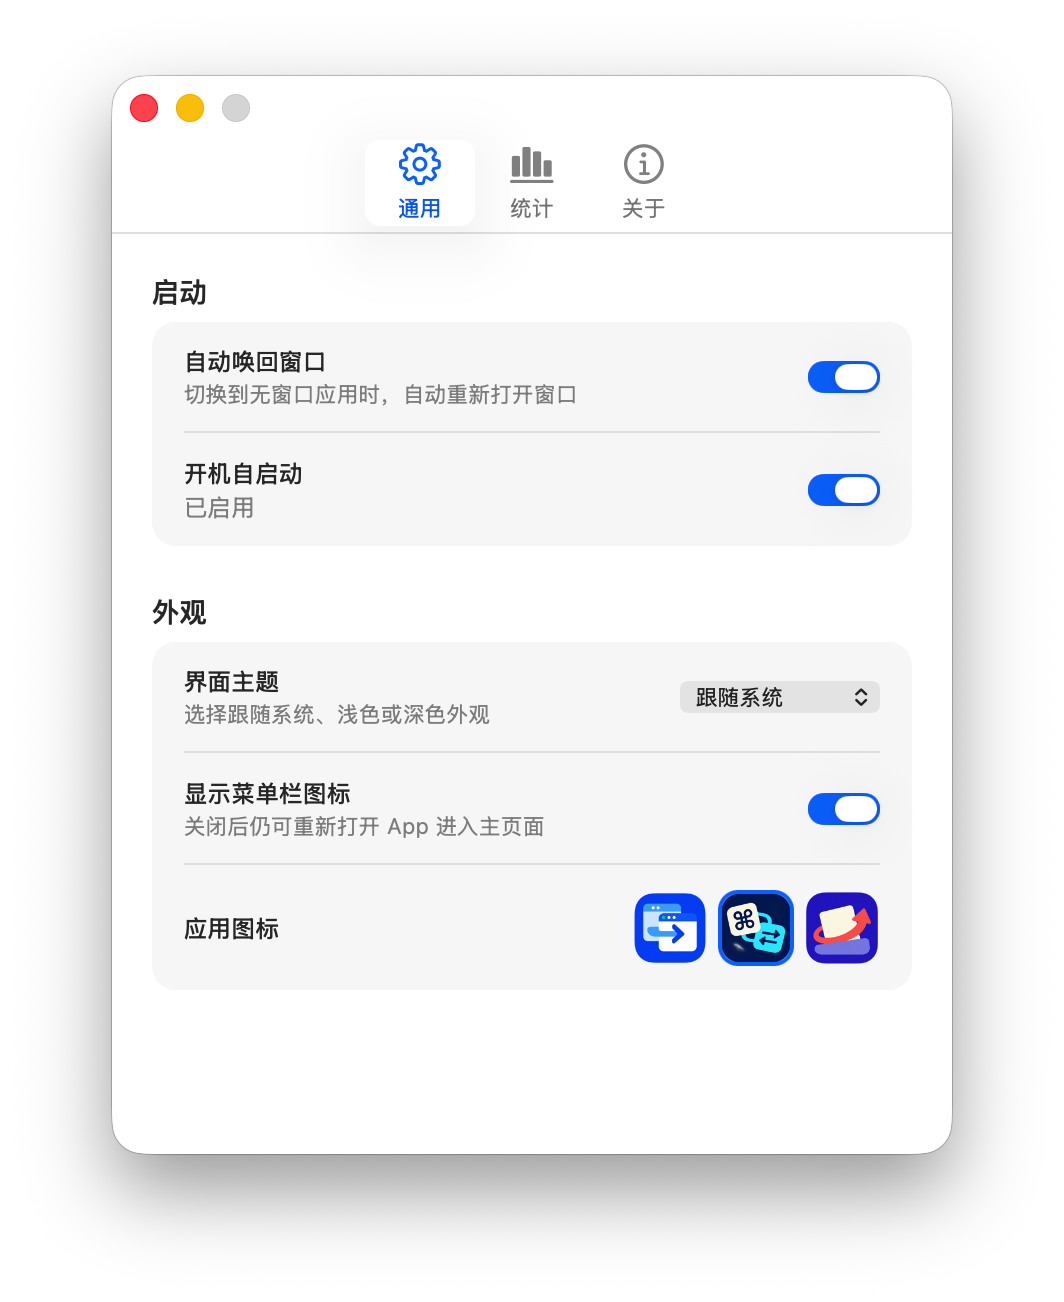
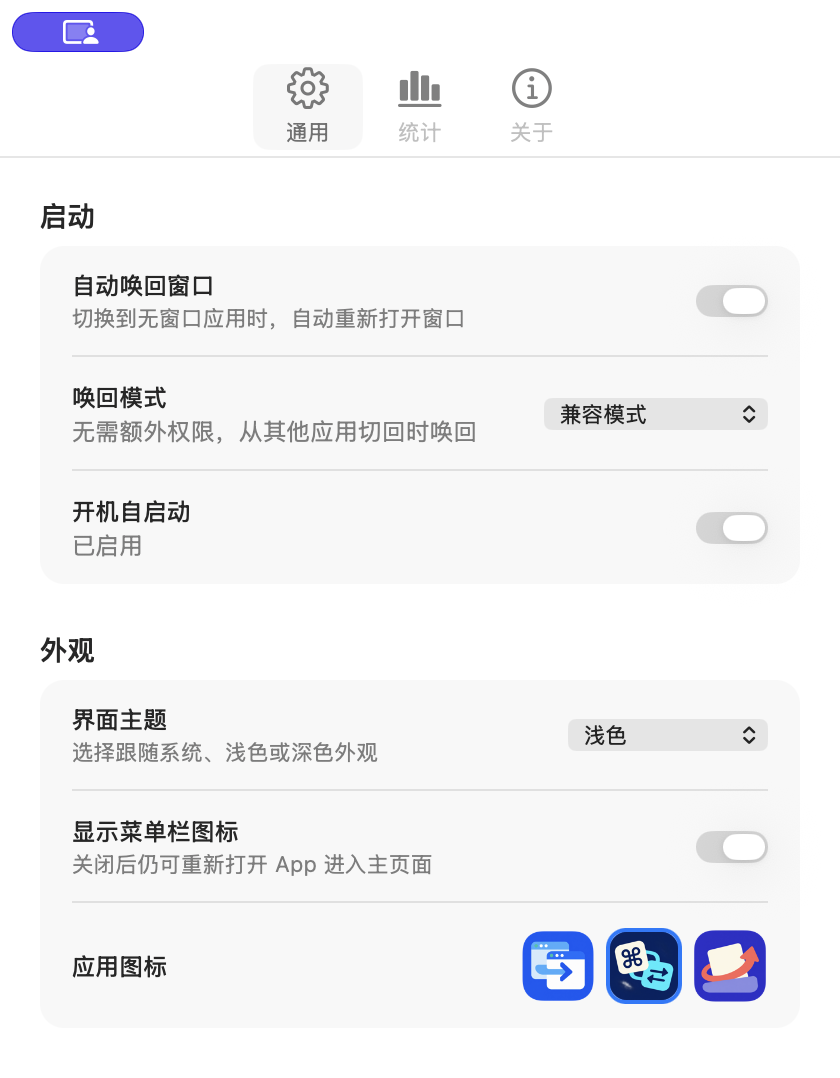
release: publish Cmd Tab Pro v0.4.1

diff --git a/README.md b/README.md
@@ -4,13 +4,14 @@
   <img src="Assets/AppIcon.png" alt="Cmd Tab Pro 图标" width="112">
 </p>
 
-有些 macOS 应用按下 `Cmd+W` 后只关闭窗口，进程仍在运行。再次使用 `Cmd+Tab` 切回应用时，窗口却不会回来。
+有些 macOS 应用按下 `Cmd+W` 或关闭最后一个窗口后仍在后台运行，但再次使用 `Cmd+Tab` 切回时，窗口不会自动回来。
 
-**Cmd Tab Pro** 保留系统原生 `Cmd+Tab`，切换到无窗口应用时自动唤回窗口，让应用切换更丝滑。
+**Cmd Tab Pro** 为系统原生 `Cmd+Tab` 补上窗口唤回能力：不替换系统切换器，在切回没有可见窗口的应用时请求它重新打开窗口，让应用切换更顺畅。
 
 <p align="center">
-  <img src="Assets/Screenshots/main-dashboard.png" alt="Cmd Tab Pro 通用页面" width="410">
-  <img src="Assets/Screenshots/statistics.png" alt="Cmd Tab Pro 统计页面" width="410">
+  <img src="Assets/Screenshots/main-dashboard.png" alt="Cmd Tab Pro v0.4.1 通用页面" width="270">
+  <img src="Assets/Screenshots/statistics.png" alt="Cmd Tab Pro v0.4.1 统计页面" width="270">
+  <img src="Assets/Screenshots/about.png" alt="Cmd Tab Pro v0.4.1 关于页面" width="270">
 </p>
 
 <p align="center">
@@ -19,16 +20,17 @@
   · Apple Silicon
 </p>
 
-## v0.4.0
+## 当前版本：v0.4.1
 
-新增增强自动模式：在保留系统原生 `Cmd+Tab` 的前提下，监听一次完整的 `Cmd+Tab` 切换，并在目标应用没有可见窗口时请求重新打开窗口。此模式需要输入监控权限，但不会拦截、替换或修改系统快捷键。
+v0.4.1 延续增强自动模式：在保留系统原生 `Cmd+Tab` 的前提下，被动识别一次完整的应用切换，并在目标应用没有可见顶层窗口时请求重新打开窗口。此模式需要输入监控权限，但不会拦截、替换或修改系统快捷键，也不会监听 `Cmd+W` 或记录其他键盘输入。
 
 如果不希望授予权限，可以使用兼容模式。兼容模式只依赖应用激活通知，无法区分 `Cmd+Tab`、Dock、Spotlight 或其他激活来源，但无需辅助功能、输入监控或屏幕录制权限。输入监控不可用时，应用会自动回退到兼容模式。
 
 ## 功能亮点
 
-- **保留原生体验**：不接管、不替换系统 `Cmd+Tab`；兼容模式不需要辅助功能、输入监控或屏幕录制权限。
+- **保留原生体验**：不接管、不替换系统 `Cmd+Tab`，继续使用熟悉的系统应用切换器。
 - **自动唤回窗口**：切换到无窗口应用时，自动重新打开窗口并前置。
+- **两种唤回模式**：增强自动模式精确响应 `Cmd+Tab`；兼容模式零权限运行，并在应用重新激活时尝试唤回。
 - **近 7 天统计**：展示每日切换趋势和切换最多的 5 个 App，可以随时清除。
 - **常用设置集中管理**：支持登录时启动、兼容模式或增强自动模式、浅色或深色主题，以及菜单栏图标显示。
 - **三套应用图标**：可以在通用页面切换图标，应用会自动重新签名并重启。
@@ -42,7 +44,7 @@
 
     bash scripts/install.sh
 
-安装脚本会为 macOS 26 构建 Apple Silicon arm64 二进制、生成 AppIcon.icns、启用 hardened runtime、进行 ad-hoc 签名、复制到 `/Applications` 并启动。兼容模式不需要辅助功能或输入监控权限。
+安装脚本会为 macOS 26 构建 Apple Silicon arm64 二进制、生成 AppIcon.icns、启用 hardened runtime、进行 ad-hoc 签名、复制到 `/Applications` 并启动。默认兼容模式不需要任何权限；启用增强自动模式时需要授予输入监控权限。
 
 ## 使用
 
@@ -52,7 +54,7 @@
 
 菜单栏可以暂停功能、设置登录时启动、隐藏图标或退出。主页面也可以切换兼容模式和增强自动模式，并控制菜单栏图标是否显示；关闭后仍可重新打开 App 进入主页面并恢复图标。
 
-统计记录普通 GUI 应用成为前台应用的次数，来源可能是 Cmd+Tab、Dock、Spotlight 或点击窗口。当前无权限方案无法区分具体切换来源。
+统计记录普通 GUI 应用成为前台应用的次数，来源可能是 `Cmd+Tab`、Dock、Spotlight 或点击窗口，因此统计数字代表应用切换次数，而不是仅统计 `Cmd+Tab`。
 
 界面主题支持跟随系统、浅色和深色，默认跟随系统并记住用户选择。
 
@@ -86,7 +88,7 @@
 ## 边界
 
 - Cmd+Q 已退出的应用不会出现在 Cmd+Tab 中，也不会由本工具启动。
-- 工具不检查窗口数量，而是把是否需要创建窗口交给目标应用自己的 reopen 处理。
+- 工具只判断目标应用是否存在可见顶层窗口，不读取窗口标题、内容或缩略图；确认无可见窗口后，再把是否创建窗口交给目标应用自己的 reopen 处理。
 - 规范的 macOS 应用在已有窗口时只前置，在没有窗口时创建窗口。
 - 少数不规范应用可能忽略 reopen，或把它解释为新建窗口。
 
